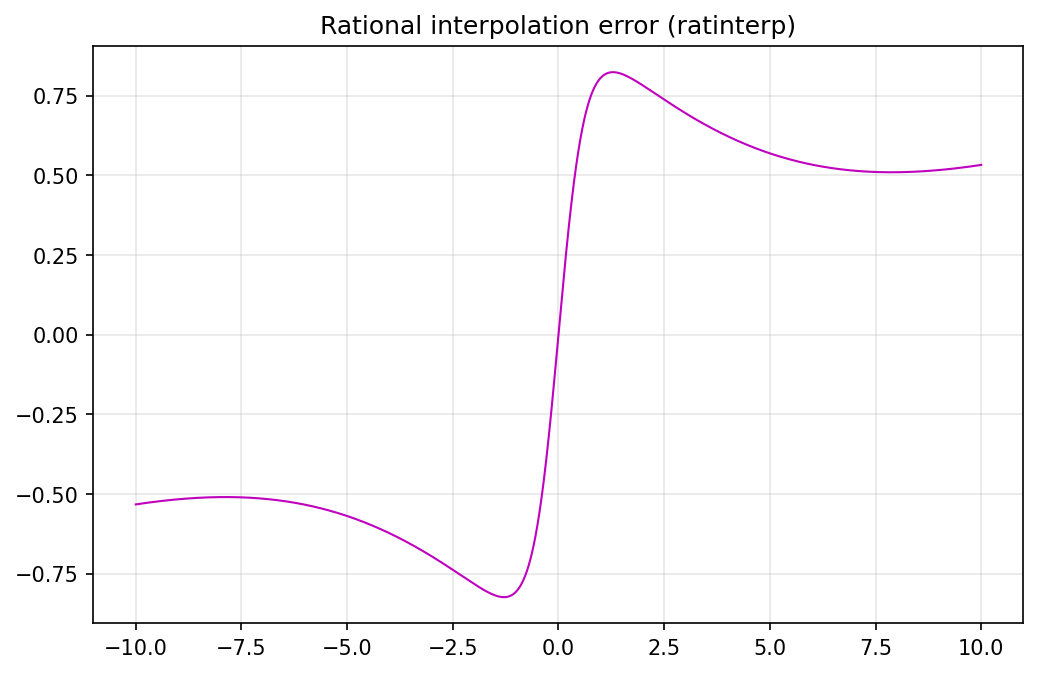
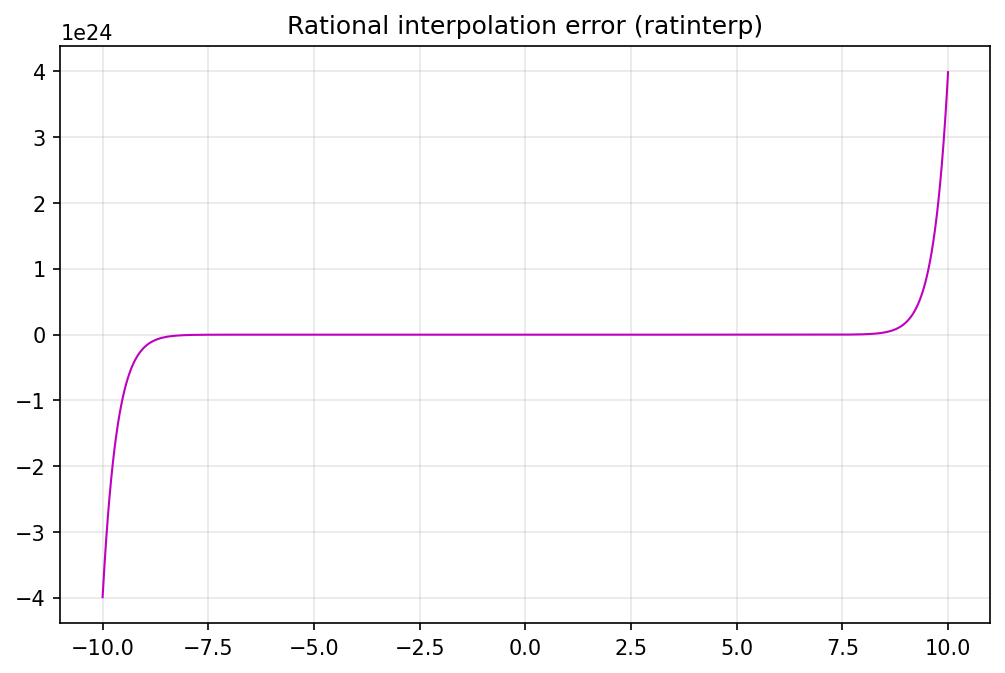
guide04: fix fig23 ratinterp error to show the extrapolation blow-up
The type-(40,4) rational interpolant is fit on [-1,1] but the figure plots
the error over [-10,10] to demonstrate the endpoint blow-up (degree-40
numerator grows like x^36 outside the fit interval). The script was
evaluating rh(t/10), which maps every sample back INTO [-1,1] -- so no
extrapolation and no blow-up, giving a bounded S-curve that contradicted the
figure's title and committed reference. Evaluate rh(t) directly so the error
explodes at the endpoints as intended. Badness 0.054 (was a metric false-pass:
both curves are thin magenta lines on white).

diff --git a/scripts/generate_guide04_plots.py b/scripts/generate_guide04_plots.py
@@ -737,7 +737,11 @@ try:
         ri = ratinterp(_ftest, 40, 4)   # no domain: fit on [-1,1]
         rh = ri[0]
         xx = np.linspace(-10, 10, 2000)
-        rv = np.array([float(rh(float(t / 10.0))) for t in xx])
+        # Extrapolate the [-1,1]-domain type-(40,4) interpolant to [-10,10]:
+        # the degree-40 numerator grows like x^36 outside the fit interval, so
+        # the error blows up at the endpoints (the intended demonstration).
+        # (Evaluating rh(t/10) instead would stay inside [-1,1] -> no blow-up.)
+        rv = np.array([float(rh(float(t))) for t in xx])
         err = np.asarray(_ftest(jnp.array(xx))) - rv
         fig, ax = plt.subplots(figsize=(8, 5))
         ax.plot(xx, err, color=MAG, linewidth=1.0)
